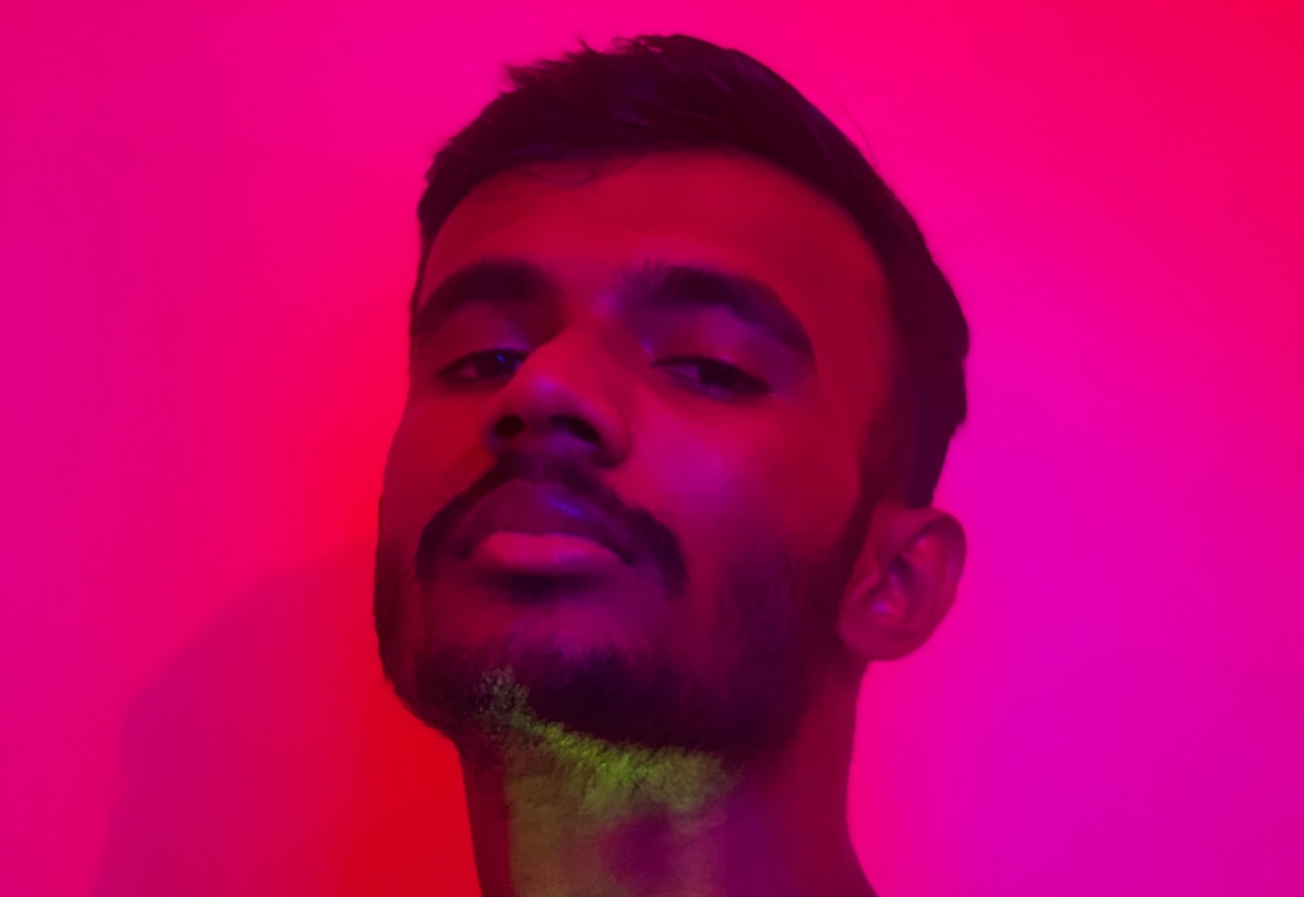
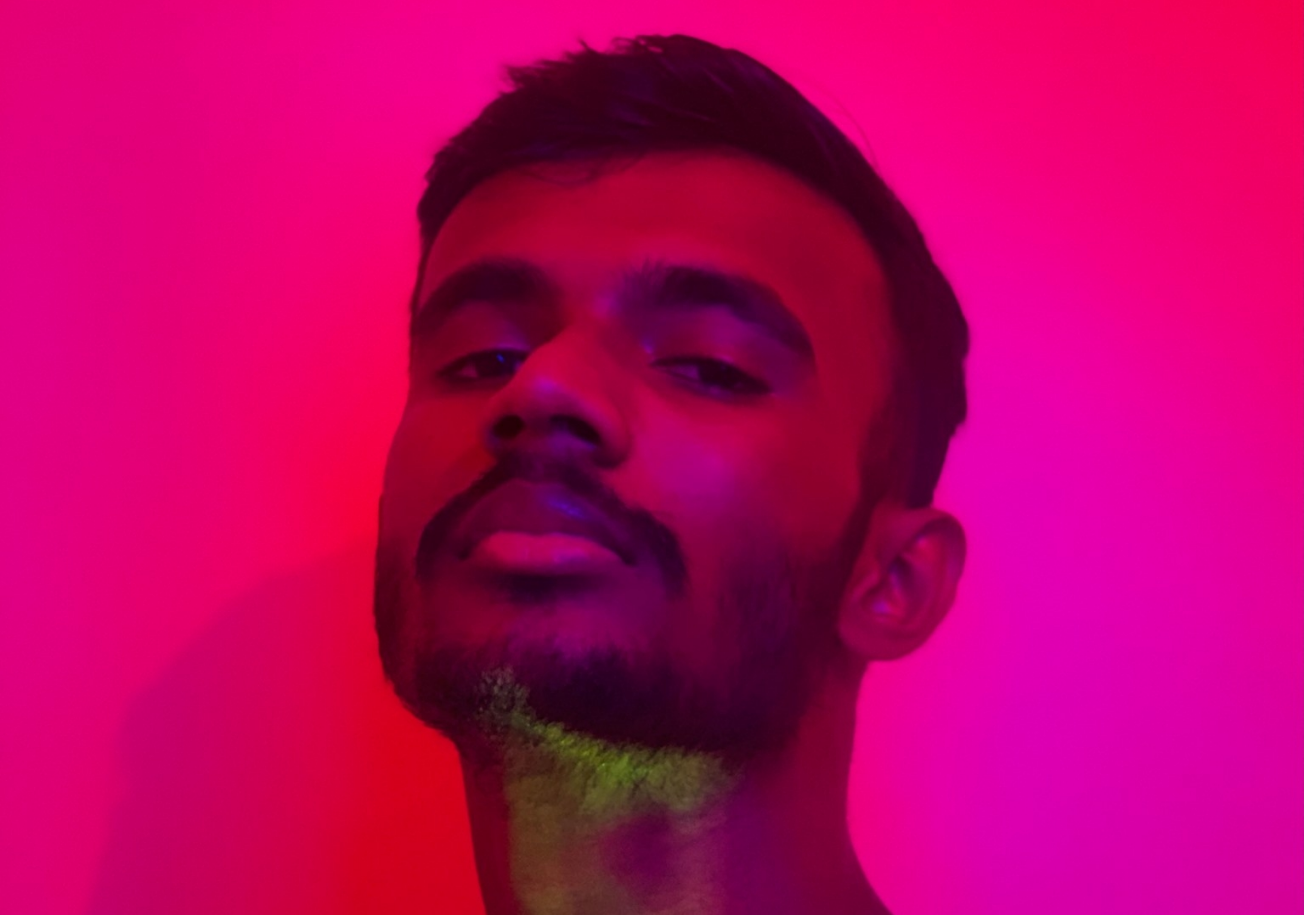
Content and imgs changed

diff --git a/p5js-glitch-canvas/style.css b/p5js-glitch-canvas/style.css
@@ -7,22 +7,23 @@
 html, body {
   margin: 0;
   padding: 0;
-  background: white;
+  background: black;
 }
 
 
 .insta-margin1{
   width: 700px;
   height: 700px;
-  background-color: yellow;
+  background-color: white;
 }
 
+
 .upper-section{
-  padding-bottom: 1%;
-  padding-top: 1%;
+  padding-bottom: 3%;
+  padding-top: 2%;
 }
 #heading{
-  font-family: coolvetica;
+  font-family: Akira Super;
   text-transform: uppercase;
   margin-left: 8px !important;
 }
@@ -36,23 +37,34 @@ html, body {
   margin-right : 8px !important;
 }
 
+
 #img-container img{
   width: 100%;
 }
 
+
+.bottom-section{
+  padding-top: 5%;
+}
 #bottom-text-01{
   text-align: left;
   margin-left: 8px !important;  
   margin-top: 2%;
-  font-family: poppins;
+  font-family: Akira Super;
   font-weight: 400;
-  color: black;
+  color: white;
+  -webkit-text-stroke-width: 1.5px;
+  -webkit-text-stroke-color: black;
 }
 #bottom-text-02{
   text-align: right;
   margin-right: 8px !important;
   margin-top: 2%;
-  font-family: poppins;
+  font-family: Akira Super;
   font-weight: 400;
   color: black;
+}
+
+.p5Canvas{
+  display: hidden;
 }

diff --git a/p5js-glitch-canvas/index.html b/p5js-glitch-canvas/index.html
@@ -23,13 +23,8 @@
     
     <div class="upper-section">
       <div class="row align-items-end">
-        <div class="col-6">
-          <h1 id="heading">The <br> Lily Flower</h1>
-        </div>
-        <div class="col-6">
-          <p id="description">
-            I love a man with a great sense of humor and who is 
-            intelligent – a man who has a great smile.</p>
+        <div class="col-12">
+          <h1 id="heading">rush <br> politicin ✦</h1>
         </div>
       </div>
     </div>
@@ -41,10 +36,10 @@
     <div class="bottom-section">
       <div class="row">
         <div class="col-6">
-          <p id="bottom-text-01">The Design Space</p>
+          <h3 id="bottom-text-01">crow mafia</h3>
         </div>
         <div class="col-6">
-          <p id="bottom-text-02">Glitch visual by Vihan Perera</p>
+          <h3 id="bottom-text-02">House Music</h3>
         </div>
       </div>
     </div>

diff --git a/p5js-glitch-canvas/sketch.js b/p5js-glitch-canvas/sketch.js
@@ -1,12 +1,13 @@
 function setup() {
   //createCanvas(400, 400);
+  //background(225)
   noLoop();
 }
 
 
 function draw() 
 {
-  var imagePath = "img/Rush.png";
+  var imagePath = "img/Rush02.png";
 
   var params = 
   {
